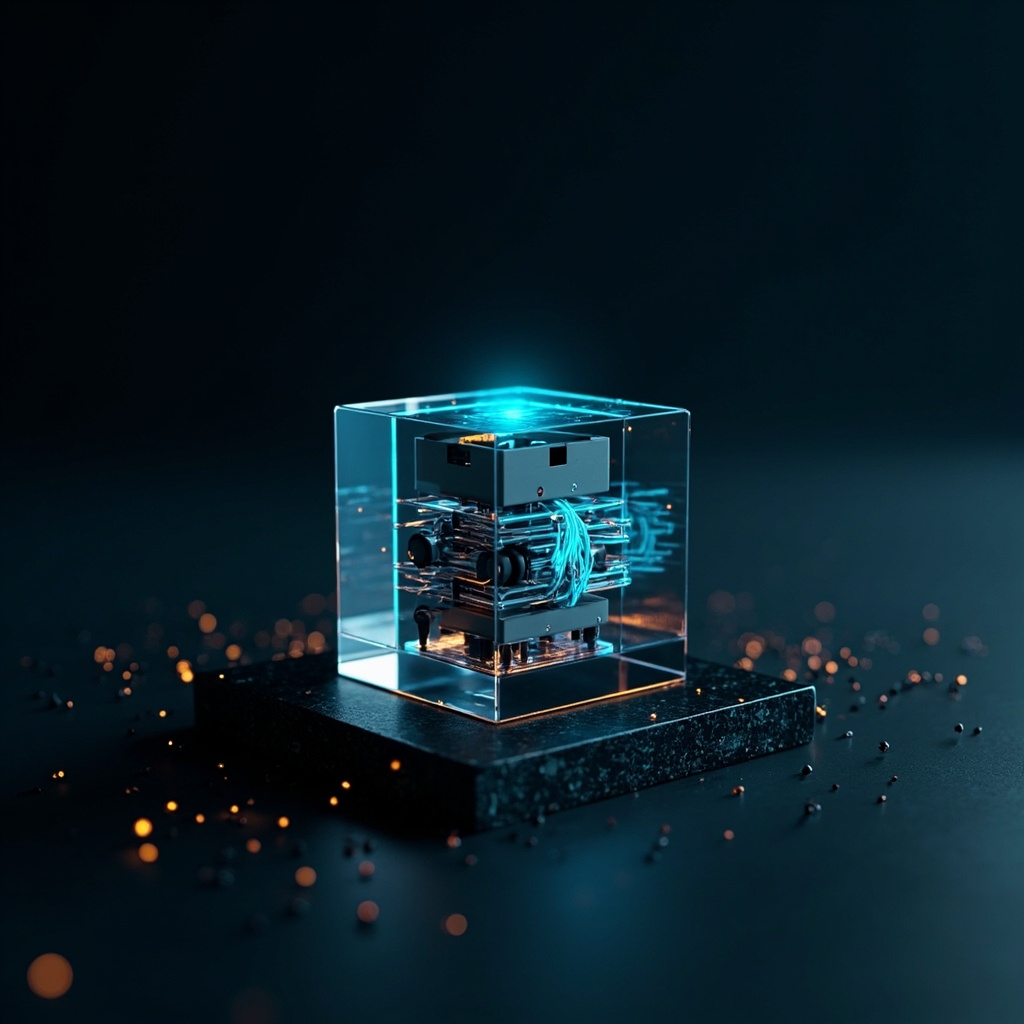
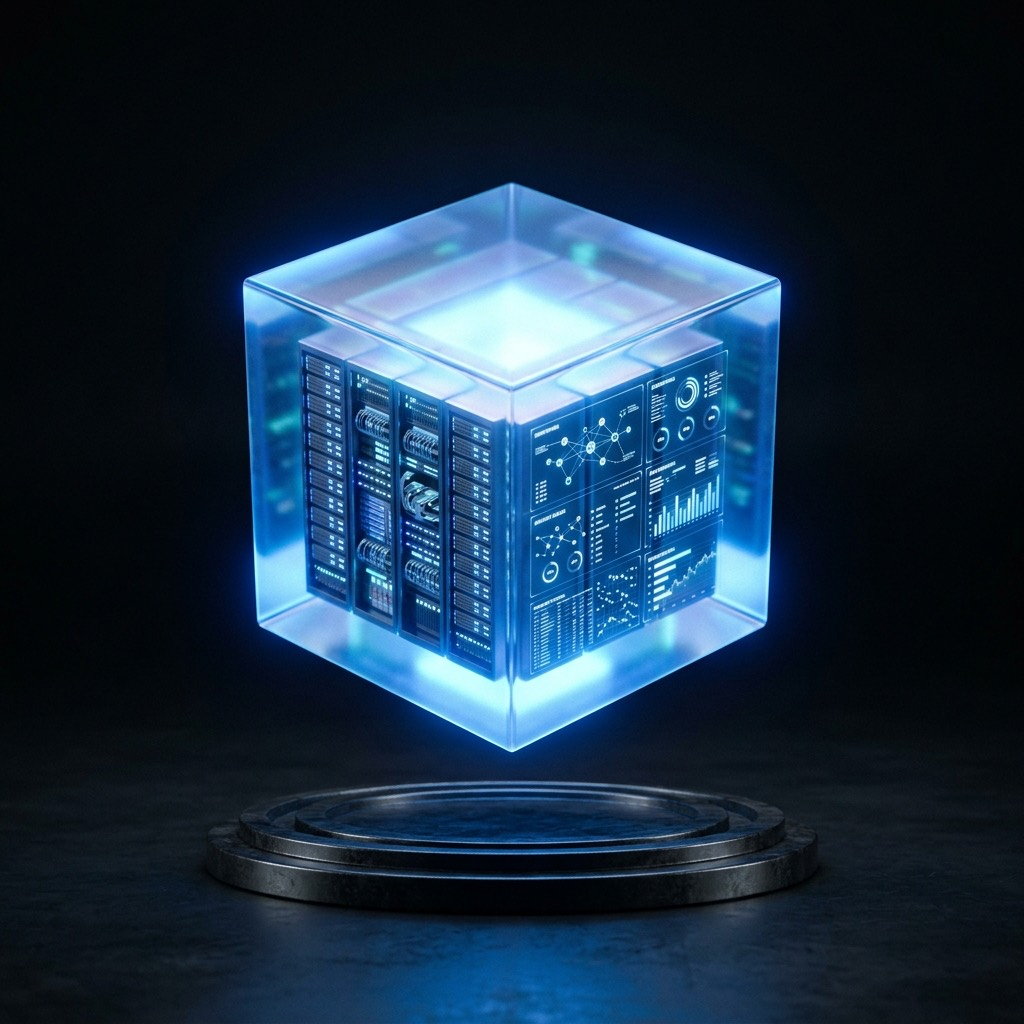
Complete feature-card art refresh + image-back cards 7 & 8 + og-card — v0.2.8

diff --git a/index.html b/index.html
@@ -16,7 +16,7 @@
     <meta name="description" content="Vendor-agnostic firewall monitoring with SNMP polling, sFlow + NetFlow/IPFIX flow analytics, config change tracking, role-based access with 2FA, and distributed probe-relays. Self-hosted in one Docker container.">
     
     <!-- Favicon Links -->
-    <link rel="icon" type="image/png" sizes="32x32" href="assets/features/f6-audit-posture.png">
+    <link rel="icon" type="image/png" sizes="32x32" href="assets/features/f6-audit-posture.png?v=0.2.8">
     
     <!-- Google Fonts -->
     <link rel="preconnect" href="https://fonts.googleapis.com">
@@ -803,7 +803,7 @@
                     </div>
                     
                     <!-- Card 4 -->
-                    <div class="feature-card" style="background-image: url('assets/features/f4-probe-relay.png');">
+                    <div class="feature-card" style="background-image: url('assets/features/f4-probe-relay.png?v=0.2.8');">
                         <div class="feature-card-overlay"></div>
                         <div class="feature-card-content">
                             <div class="feature-card-header">
@@ -815,7 +815,7 @@
                     </div>
                     
                     <!-- Card 5 -->
-                    <div class="feature-card" style="background-image: url('assets/features/f5-single-container.png');">
+                    <div class="feature-card" style="background-image: url('assets/features/f5-single-container.png?v=0.2.8');">
                         <div class="feature-card-overlay"></div>
                         <div class="feature-card-content">
                             <div class="feature-card-header">
@@ -827,7 +827,7 @@
                     </div>
                     
                     <!-- Card 6 -->
-                    <div class="feature-card" style="background-image: url('assets/features/f6-audit-posture.png');">
+                    <div class="feature-card" style="background-image: url('assets/features/f6-audit-posture.png?v=0.2.8');">
                         <div class="feature-card-overlay"></div>
                         <div class="feature-card-content">
                             <div class="feature-card-header">
@@ -839,7 +839,7 @@
                     </div>
 
                     <!-- Card 7 -->
-                    <div class="feature-card feature-card--noimg feature-card--access">
+                    <div class="feature-card" style="background-image: url('assets/features/f7-roles-2fa.png?v=0.2.8');">
                         <div class="feature-card-overlay"></div>
                         <div class="feature-card-content">
                             <div class="feature-card-header">
@@ -851,7 +851,7 @@
                     </div>
 
                     <!-- Card 8 -->
-                    <div class="feature-card feature-card--noimg feature-card--alerting">
+                    <div class="feature-card" style="background-image: url('assets/features/f8-alerting.png?v=0.2.8');">
                         <div class="feature-card-overlay"></div>
                         <div class="feature-card-content">
                             <div class="feature-card-header">

diff --git a/docs.html b/docs.html
@@ -16,7 +16,7 @@
     <meta name="description" content="Reference documentation and architecture specifications for Firewall-Mon. Understand process components, telemetry sync loops, SNMP setups, and sFlow / NetFlow / IPFIX flow ingestion.">
 
     <!-- Favicon Links -->
-    <link rel="icon" type="image/png" sizes="32x32" href="assets/features/f6-audit-posture.png">
+    <link rel="icon" type="image/png" sizes="32x32" href="assets/features/f6-audit-posture.png?v=0.2.8">
     
     <!-- Google Fonts -->
     <link rel="preconnect" href="https://fonts.googleapis.com">

diff --git a/CHANGELOG.md b/CHANGELOG.md
@@ -3,6 +3,22 @@
 All notable changes to the Firewall-Mon marketing website are documented here.
 This file follows [Keep a Changelog](https://keepachangelog.com/) conventions; versions are newest-first.
 
+## [0.2.8] - 2026-07-18
+
+### Changed
+- **Feature-card art refresh complete (batch 2 of 2).** New on-palette images for
+  cards 4–6: `f4-probe-relay.png`, `f5-single-container.png`,
+  `f6-audit-posture.png` (also the favicon). Recompressed to ~160–430 KB.
+
+### Added
+- **Cards 7 & 8 now have real art** instead of CSS gradients: `f7-roles-2fa.png`
+  (Roles & 2FA) and `f8-alerting.png` (Enterprise Alerting). Dropped the
+  `feature-card--noimg / --access / --alerting` classes; both cards now use the
+  same image-backed treatment as cards 1–6, completing the 8-card grid.
+- Social share image generated and cropped to the 1200×630 Open Graph standard:
+  `assets/social/og-card.png` (meta tags wired in a follow-up).
+- Cache-busters (`?v=0.2.8`) on cards 4–8 and the favicon so the new art loads.
+
 ## [0.2.7] - 2026-07-18
 
 ### Fixed